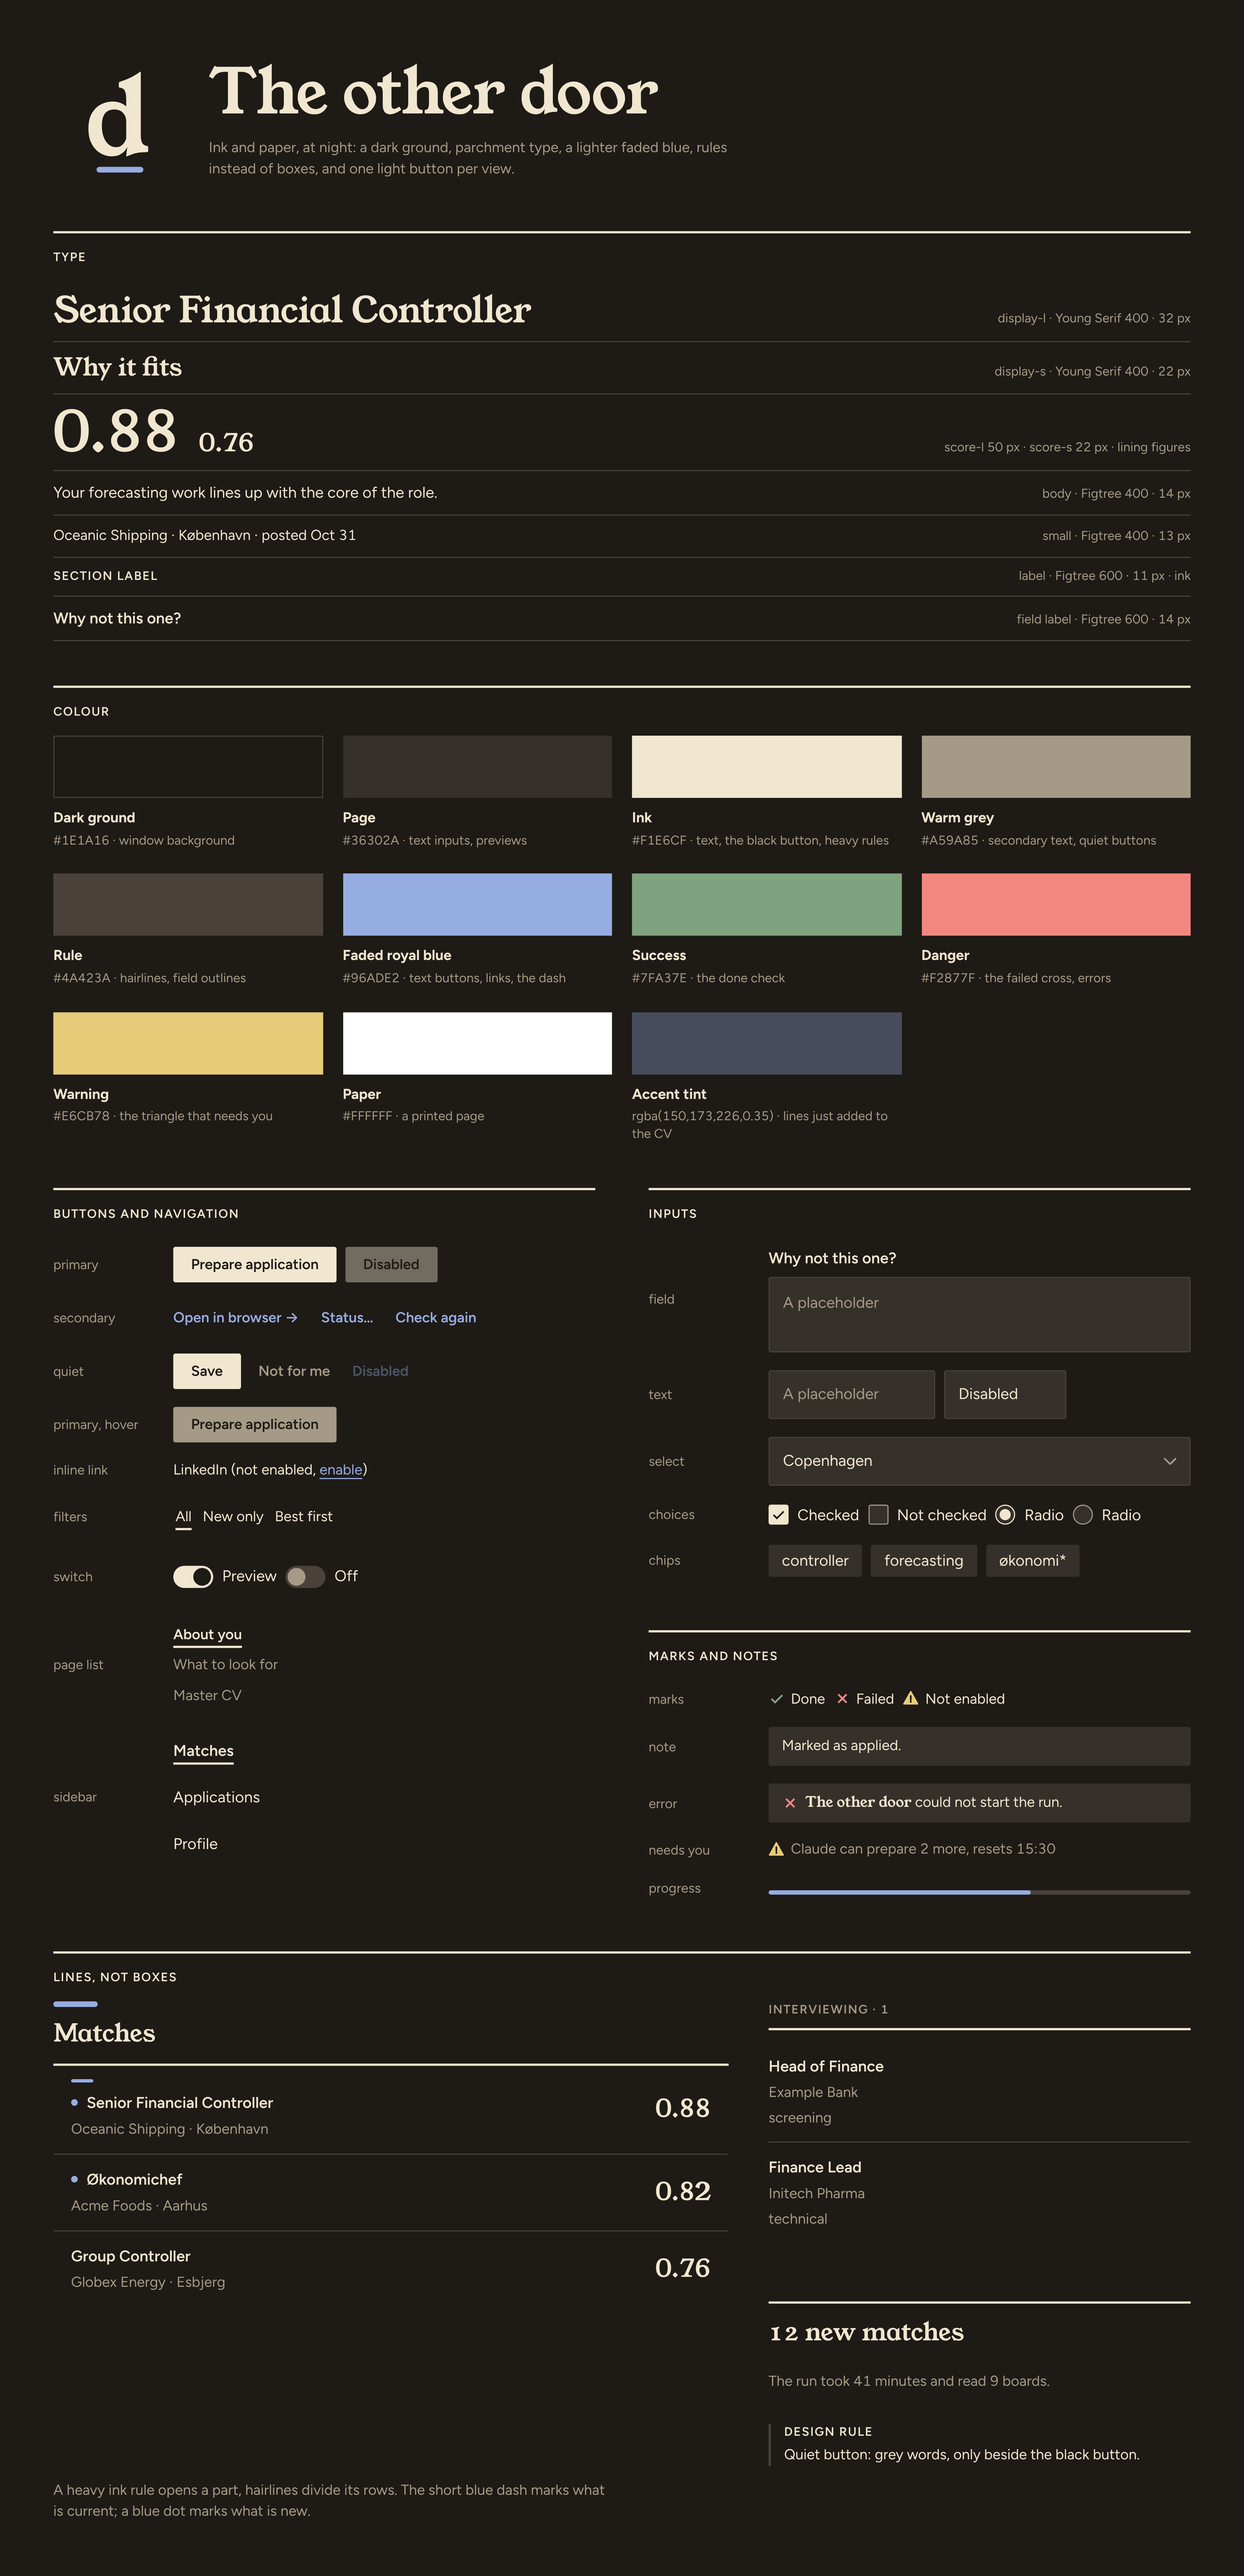
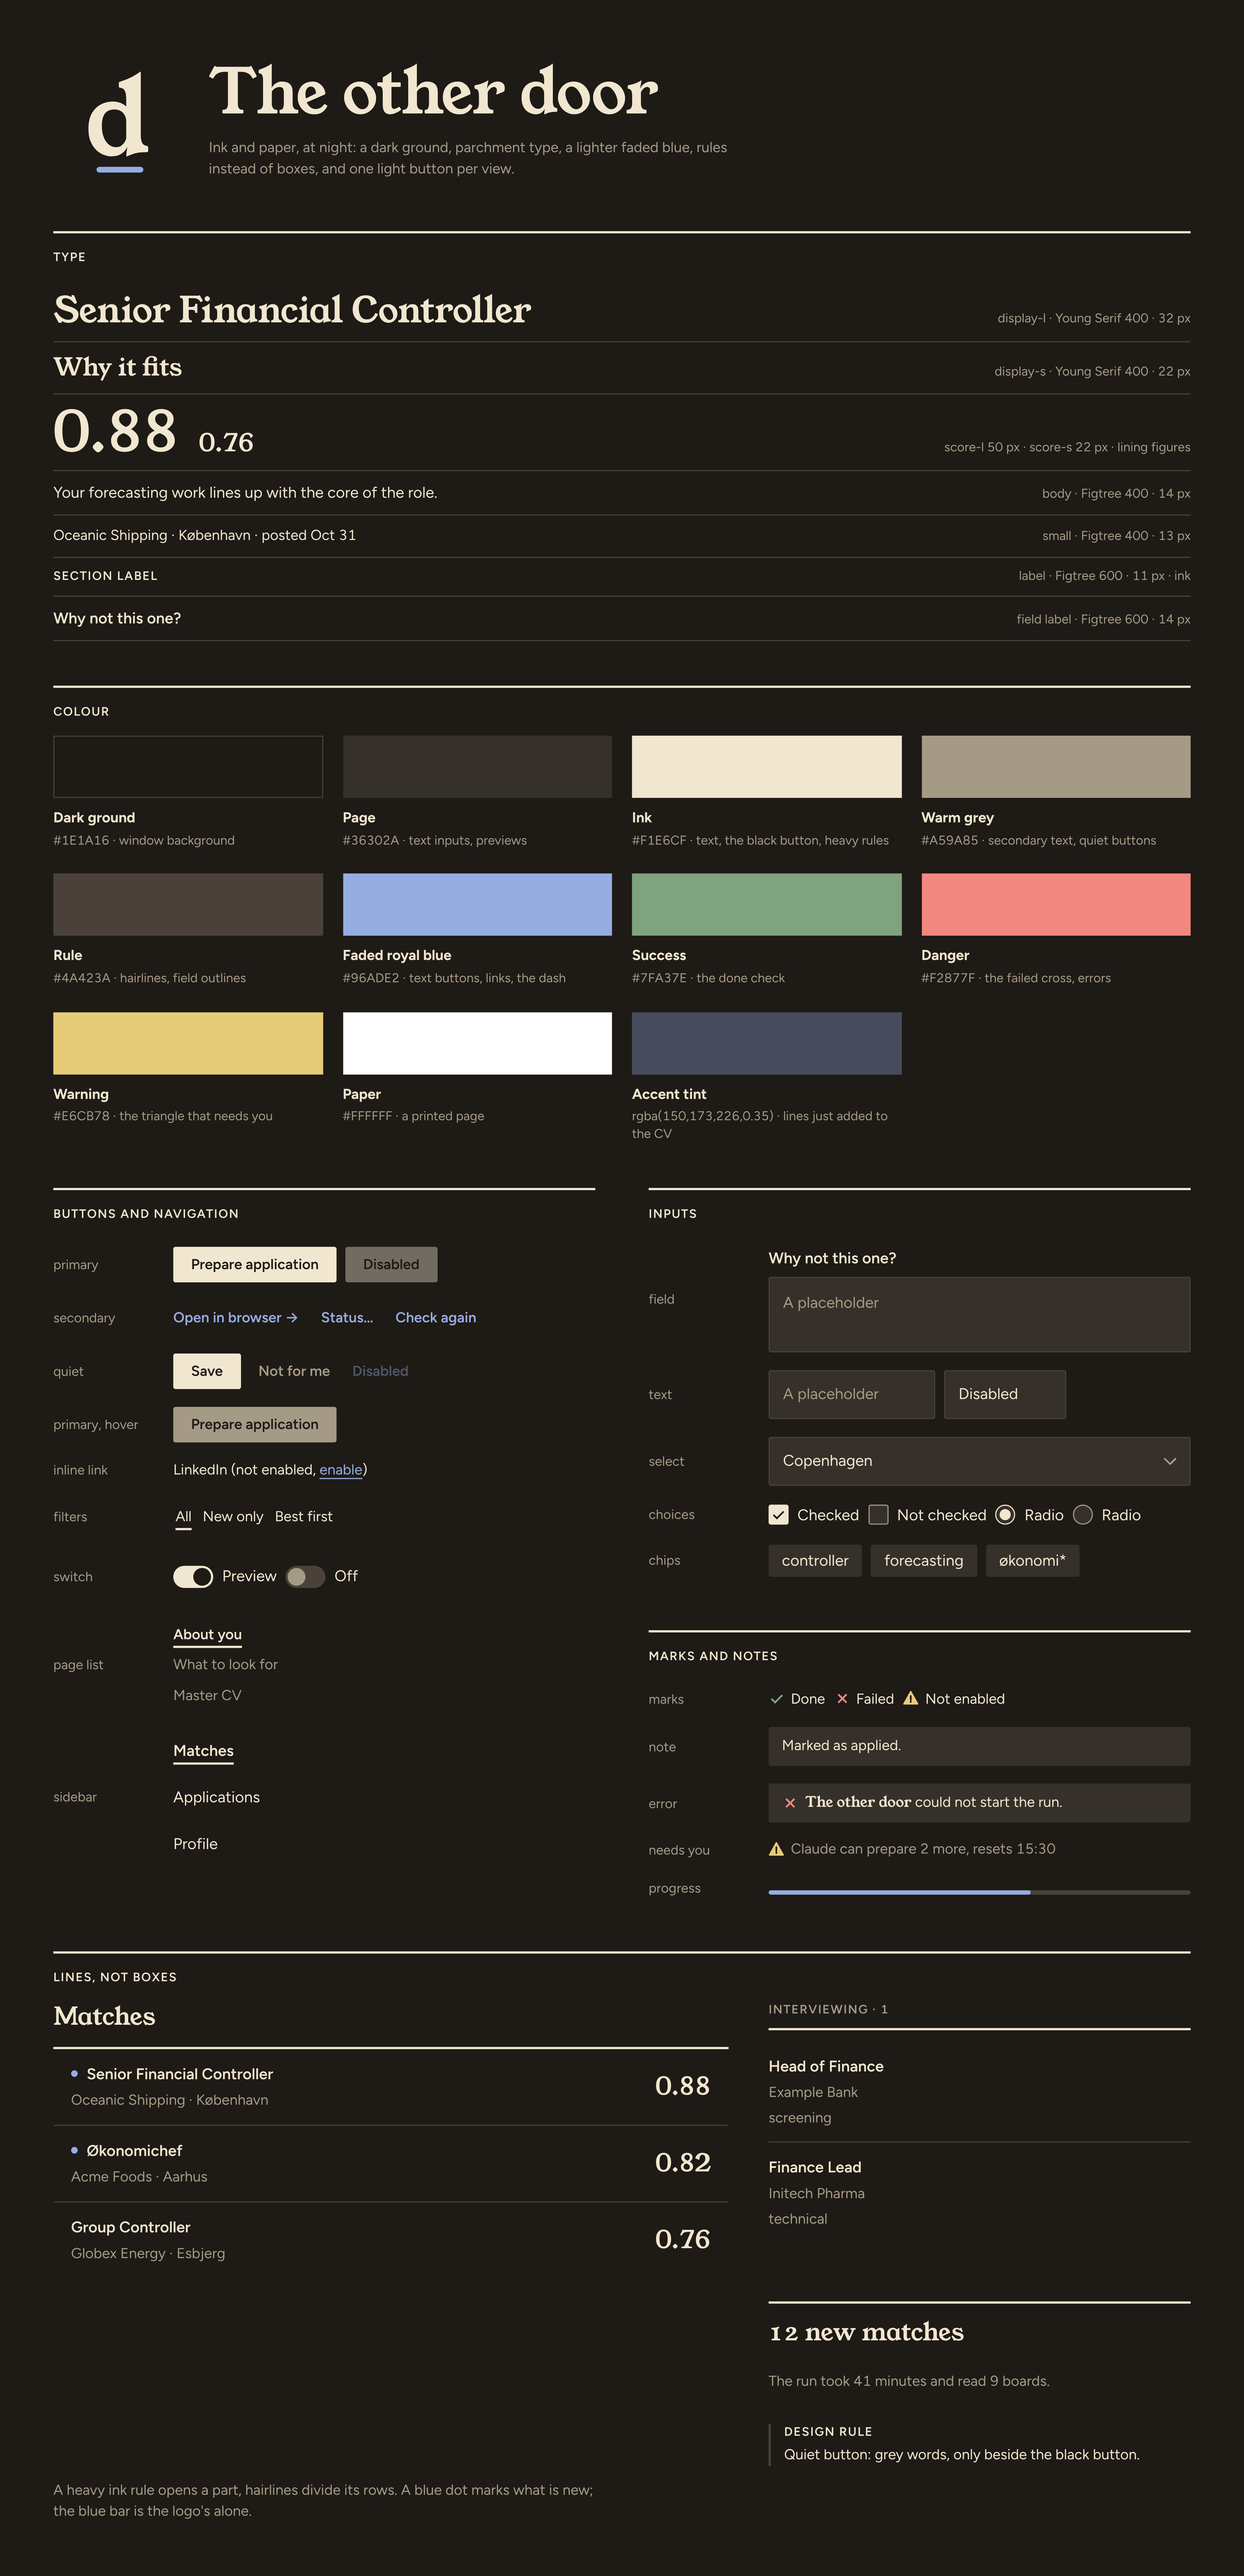
Design: the blue bar no longer marks what is current
Clicking a match opens the posting, so no list row is ever shown as
open. In the next style an underline alone marks a chosen word; the
blue bar is the logo's own. The cards drop the bar above the list and
the review notes say so (change 5).

Claude-Session: https://claude.ai/code/session_01X7AZRJmbXV9ZNnZ5yp7fGB

Changed region(s): [[0.0311, 0.779, 0.2176, 0.9036], [0.5284, 0.779, 0.5905, 0.8725]]

diff --git a/docs/design/next-style-review.md b/docs/design/next-style-review.md
@@ -19,8 +19,11 @@ the original logo, no underline on quiet buttons, the faded blue `#3D5798` as th
 4. **The black button stays black on hover.** It turned blue, against the rule that blue is never a button
    fill. It turns `ink-muted`, as before.
 5. **One way to show what is current.** It was shown five ways (underline, fill, dash, side bar, blue block).
-   Now: an underline for a chosen word (the sidebar, filters, the page list beside Profile and Settings), and
-   the blue dash above for the open row and the screen's title. The selected row loses its fill.
+   Now only an underline, for a chosen word (the sidebar, filters, the page list beside Profile and Settings).
+   The blue bar no longer marks what is current: clicking a match opens the posting, so no list row is shown as
+   open, and the row it came from keeps no fill. The bar stays the logo's own; the two places that still draw
+   it as decoration (above the phone's set-up title and above an answer in "Ask about your jobs") are left to
+   the change that builds this style.
 6. **Heavy rule on the column, not on every card.** The Applications board puts the heavy ink rule under the
    column's head and hairlines between its cards, as the phone layout already does.
 7. **Notes, errors and chips: a fill, no outline.** The review warned that without an outline the `surface`
